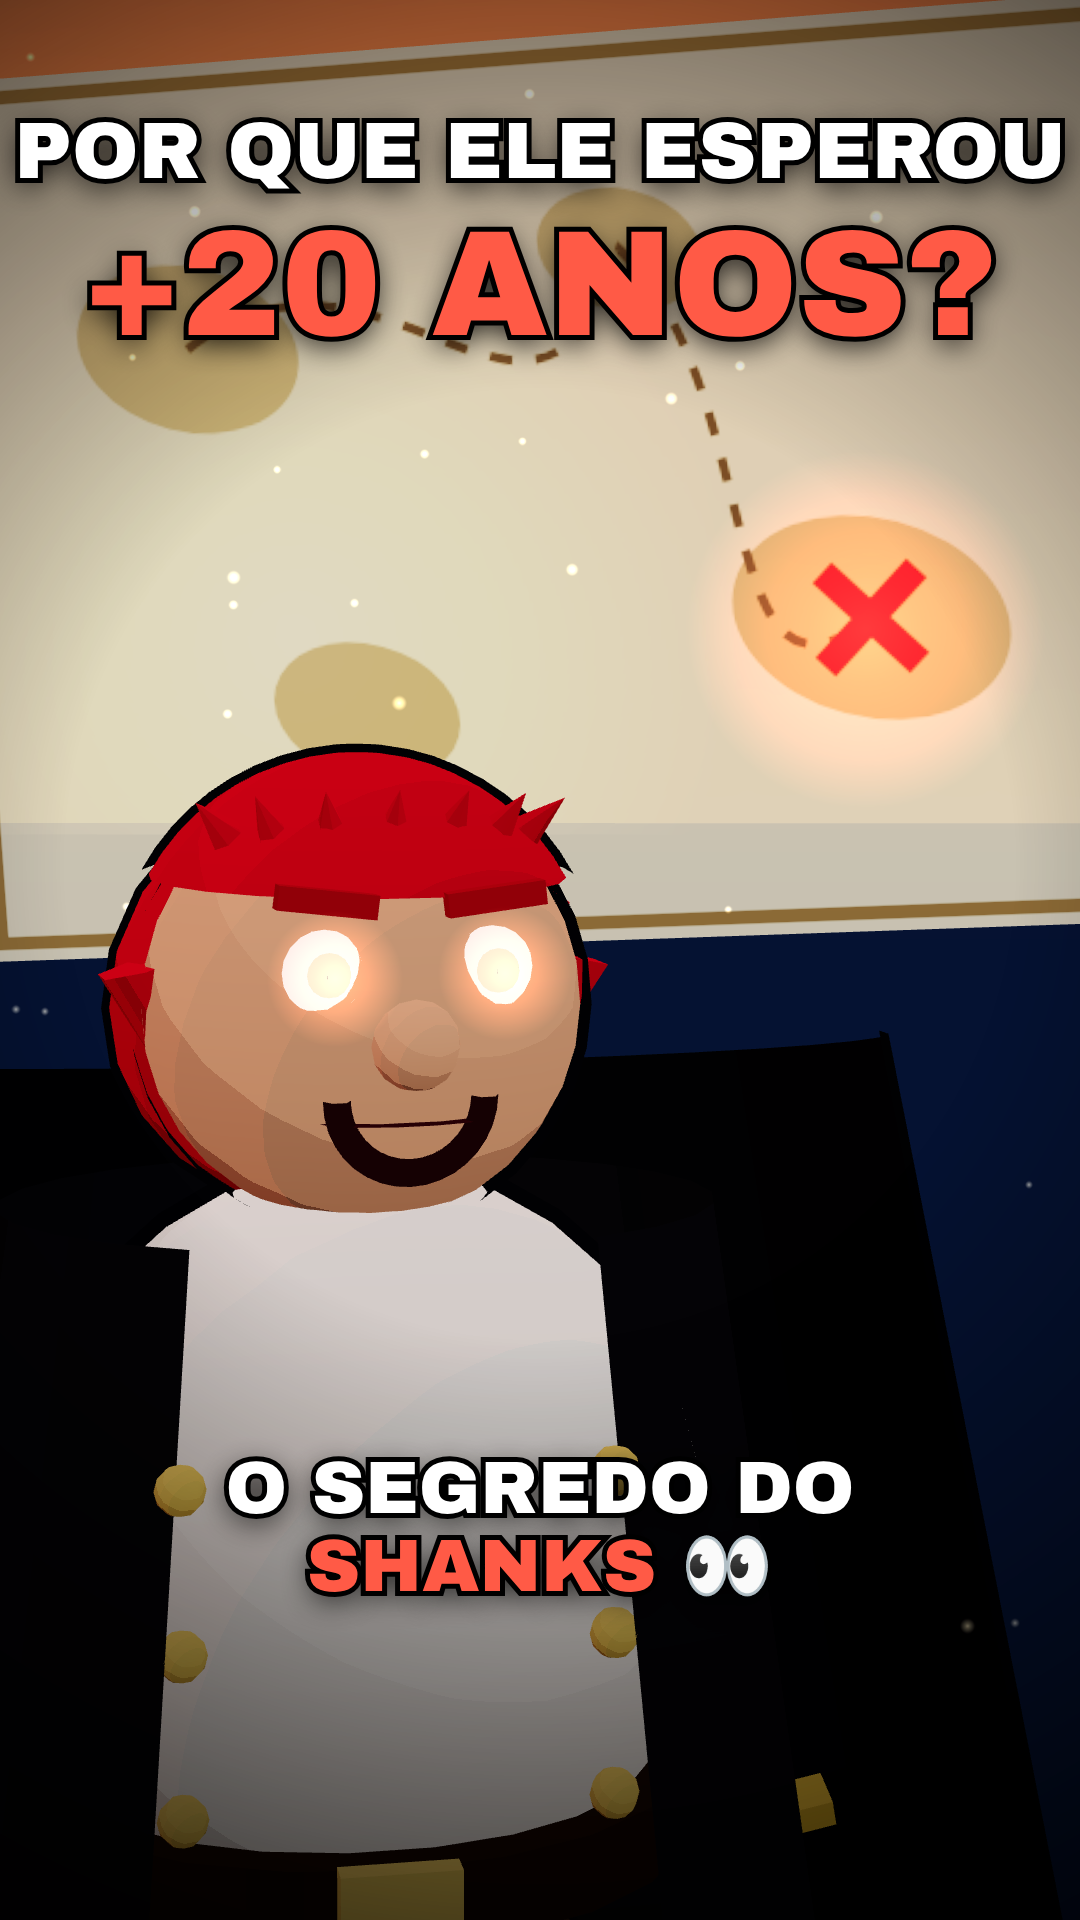
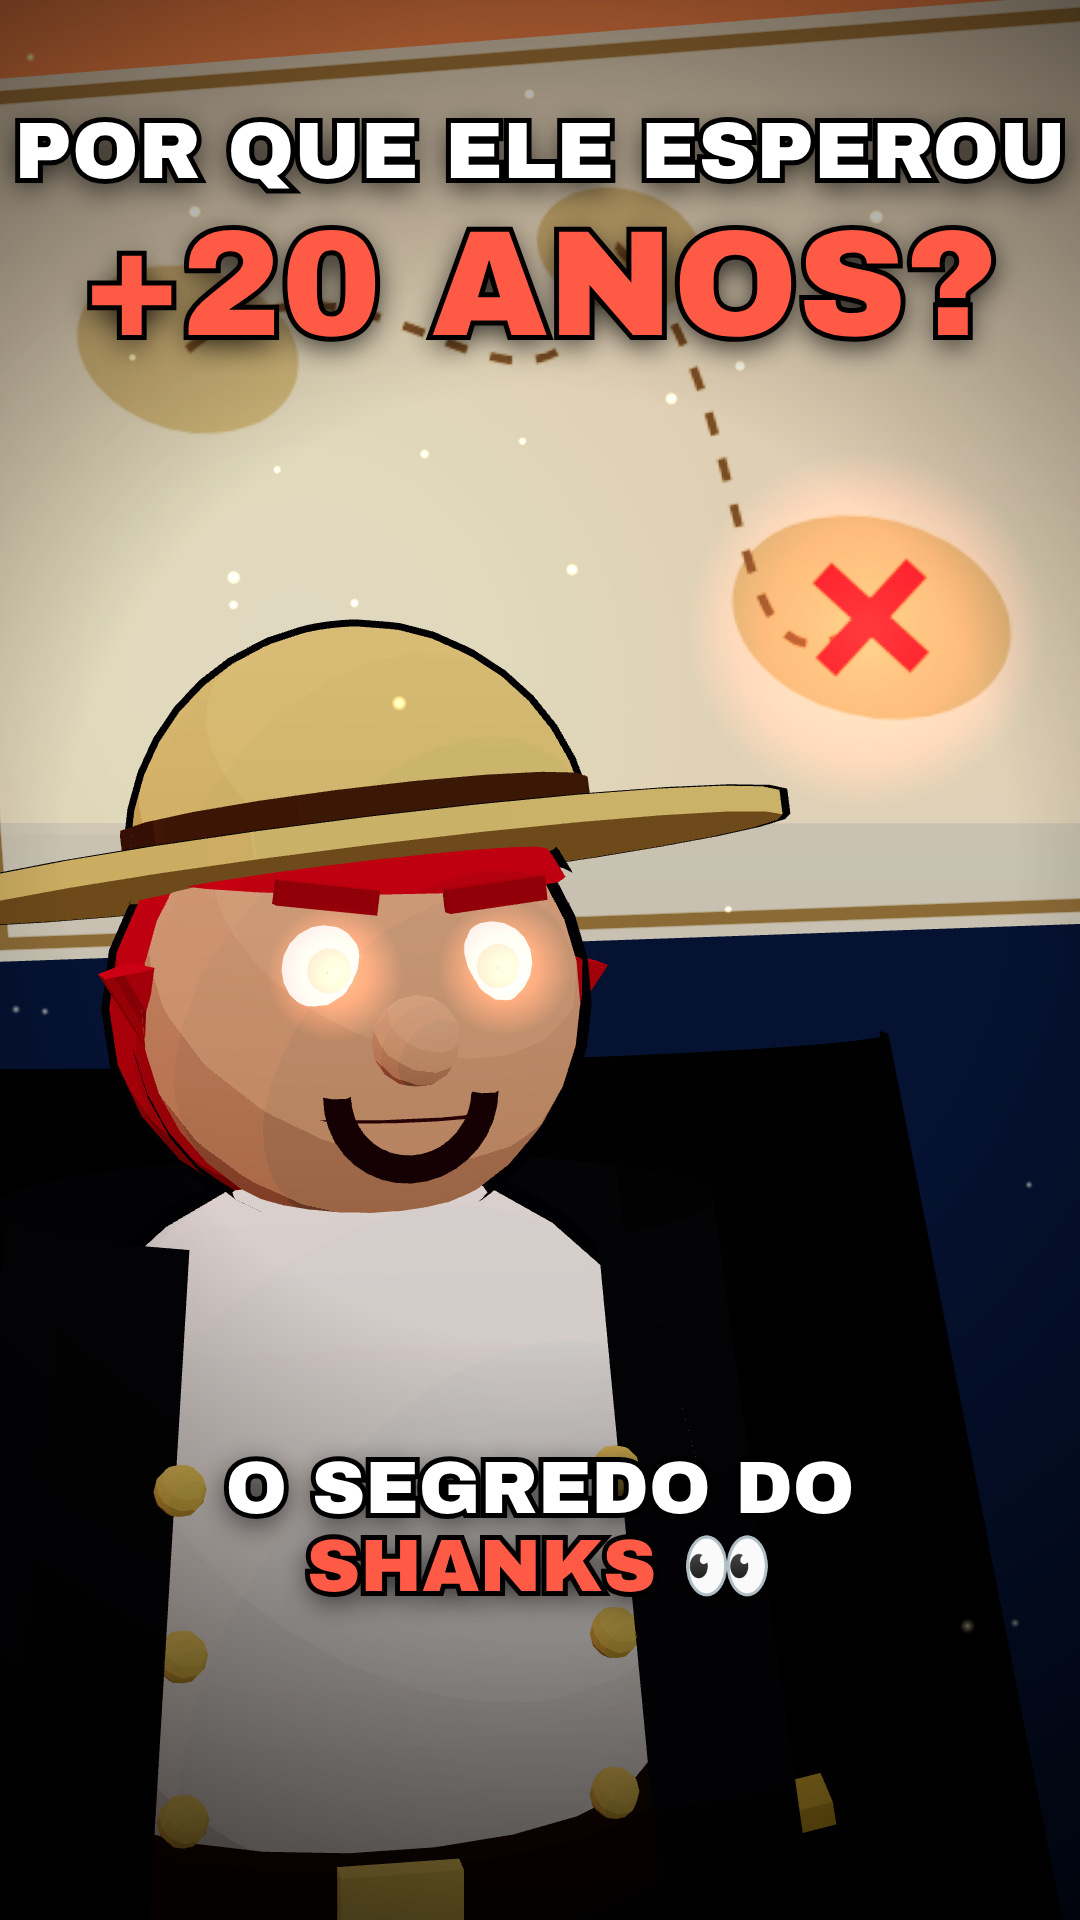
Thumb do Shanks com o chapéu de palha
Claude-Session: https://claude.ai/code/session_01NohiMdkC2Su1SAJxQxprzv

Changed region(s): [[0.0, 0.3125, 0.7333, 0.5312], [0.3056, 0.5625, 0.4583, 0.625]]

diff --git a/shanks-thumb/assets/shanks3d.js b/shanks-thumb/assets/shanks3d.js
@@ -914,10 +914,10 @@ addSet("thumb", (g) => {
   const mp = mesh(new THREE.PlaneGeometry(2.4, 1.8), new THREE.MeshBasicMaterial({ map: mapaTex(true), transparent: true, opacity: 0.9 }), 0.0, 2.75, -2.6, g); mp.rotation.set(0.05, -0.12, 0.05);
   const xg = glowSprite(0xff3a2a, 0.7, 0.55); xg.position.set(0.66, 2.48, -2.4); g.add(xg);
   g.add(dustPts(140, [-3, 3, 0.5, 4, -3, 1], 0xffd88a, 0.05, 0.8, ADD, 2));
-  const cap = ruivo(); g.add(cap);
+  const cap = ruivo(1.1, { hat: "straw" }); g.add(cap); // o chapéu de palha (modelo original, faixa marrom)
   return {
     bg: 0x2a1a3a, fog: [30, 120],
-    update(t) { cap.position.set(-0.15, 0, 0); cap.rotation.y = 0.2; pReset(cap); pIdle(cap, 0.4); capeWave(cap, 0.6, 1.4); pEyesGlow(cap, 0.75); cap.userData.head.rotation.set(0.06, 0.12, 0); },
+    update(t) { cap.position.set(-0.15, 0, 0); cap.rotation.y = 0.2; pReset(cap); pIdle(cap, 0.4); capeWave(cap, 0.6, 1.4); pEyesGlow(cap, 0.75); cap.userData.head.rotation.set(0.04, 0.12, 0); cap.userData.hatG.rotation.set(-0.16, 0, 0.09); },
     cam(t) { return { pos: [0.1, 2.25, 3.4], look: [0.05, 2.0, 0] }; },
   };
 });
